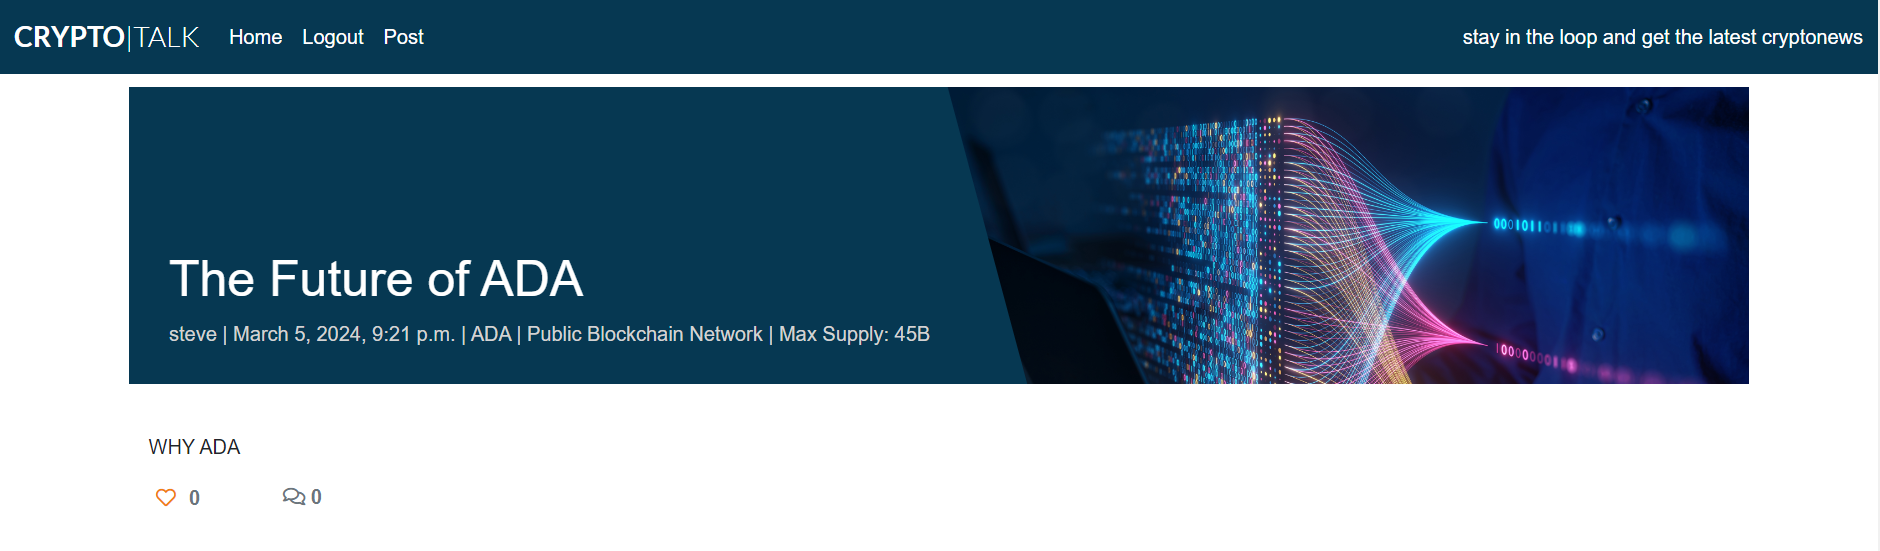
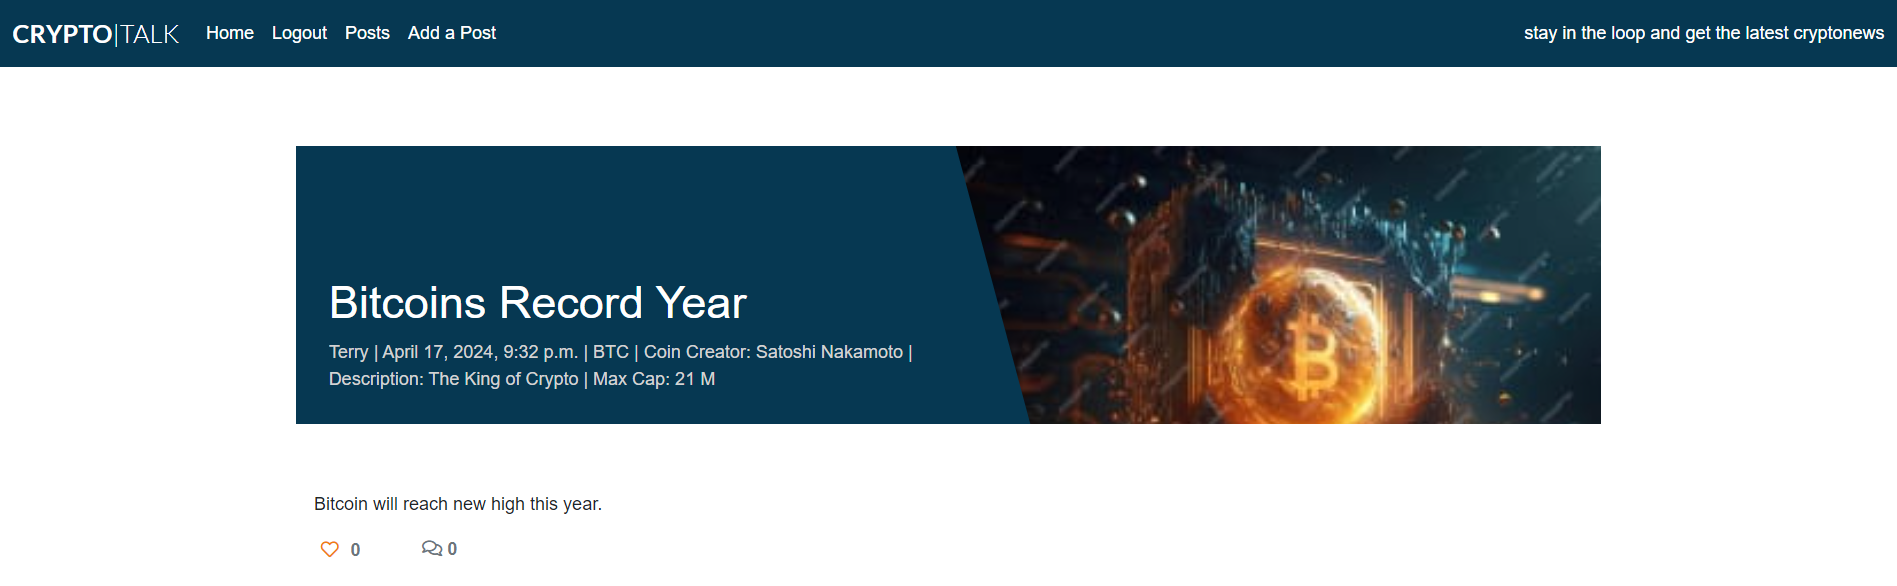
update readme and max_cap field

diff --git a/templates/account/login.html b/templates/account/login.html
@@ -3,14 +3,14 @@
 {% load i18n %}
 {% load account socialaccount %}
 
-{% block head_title %}{% trans "Sign In" %}{% endblock %}
+{% block head_title %}{% trans "Login" %}{% endblock %}
 
 {% block content %}
   
 <div class="container">
     <div class="row">
       <div class="col-md-8 mt-3 offset-md-2">
-        <h3>{% trans "Sign In" %}</h3>
+        <h3>{% trans "Login" %}</h3>
   
         <p>
           Welcome back to the CryptoTalk Blog. To leave a comment or like a post,
@@ -35,7 +35,7 @@
           {% if redirect_field_value %}
             <input type="hidden" name="{{ redirect_field_name }}" value="{{ redirect_field_value }}">
           {% endif %}
-          <button style="margin-top: 30px;" class="btn btn-signup right btn-lg" type="submit">{% trans "Sign In" %}</button>
+          <button style="margin-top: 30px;" class="btn btn-signup right btn-lg" type="submit">{% trans "Login" %}</button>
         </form>
         
       </div>

diff --git a/templates/account/logout.html b/templates/account/logout.html
@@ -8,9 +8,9 @@
 <div class="container">
     <div class="row">
         <div class="col-md-8 mt-3 offset-md-2">
-            <h3>{% trans "Sign Out" %}</h3>
+            <h3>{% trans "Logout" %}</h3>
 
-            <p>{% trans 'Are you sure you want to sign out?' %}</p>
+            <p>{% trans 'Are you sure you want to logout?' %}</p>
         </div>
     </div>
     <div class="row">
@@ -21,7 +21,7 @@
                 {% if redirect_field_value %}
                 <input type="hidden" name="{{ redirect_field_name }}" value="{{ redirect_field_value }}" />
                 {% endif %}
-                <button class="btn btn-signup right" type="submit">{% trans 'Sign Out' %}</button>
+                <button class="btn btn-signup right" type="submit">{% trans 'Logout' %}</button>
             </form>
         </div>
     </div>

diff --git a/templates/post_list.html b/templates/post_list.html
@@ -46,7 +46,7 @@
                 <p class="card-text text-muted h6">
                   {{ post.created_on}} -
                   <i class="far fa-heart"></i> | {{post.number_of_likes }} |
-                  {{post.coin_type_name|default_if_none:"" }} | {{post.coin_type_description |default_if_none:"" }} | {{post.coin_creator |default_if_none:"" }} | {{post.coin_type_max_cap |default_if_none:"" }}
+                  {{post.coin_type_name|default_if_none:"" }} | Description: {{post.coin_type_description |default_if_none:"" }} | Creator: {{post.coin_creator |default_if_none:"" }} | Max Cap: {{post.coin_type_max_cap |default_if_none:"" }}
                 </p>
               </a>
               

diff --git a/blog/models.py b/blog/models.py
@@ -22,7 +22,7 @@ class Post(models.Model):
     featured_image = CloudinaryField('image', default='placeholder')
     coin_type_name = models.CharField(max_length=50, blank=True, null=True)
     coin_type_description = models.TextField(blank=True, null=True)
-    coin_type_max_cap = models.IntegerField(blank=True, null=True)
+    coin_type_max_cap = models.CharField(max_length=50, blank=True, null=True)
     coin_creator = models.CharField(max_length=50, blank=True, null=True)
     author_image = CloudinaryField('image', default='placeholder', blank=True, null=True)
     excerpt = models.TextField(blank=True)

diff --git a/blog/migrations/0018_alter_post_coin_type_max_cap.py b/blog/migrations/0018_alter_post_coin_type_max_cap.py
@@ -1,0 +1,18 @@
+# Generated by Django 3.2.23 on 2024-04-17 21:29
+
+from django.db import migrations, models
+
+
+class Migration(migrations.Migration):
+
+    dependencies = [
+        ('blog', '0017_alter_post_coin_creator'),
+    ]
+
+    operations = [
+        migrations.AlterField(
+            model_name='post',
+            name='coin_type_max_cap',
+            field=models.CharField(blank=True, max_length=50, null=True),
+        ),
+    ]

diff --git a/README.md b/README.md
@@ -3,47 +3,12 @@
 ![Responsive screenshot](static/images-readme/cryptalk-responsive.png)
 
 
-
-
-# The purpose with this project
-
-Few subjects today can get people going like crypto. It´s something that almost everyone has an opinion about. Its a topic that many don´t really fully understand. It´s also a subject that people like or dislike for many different reasons. CryptoTalk is a blog for anyone interested in crypto. It´s a way for someone with a opinion on crypto to share that with others. 
-
-
-Required technologies for this project:
-
-- HTML, CSS, JavaScript, Python+Django
-- Relational database (SQL)
-
-A live version of this project can be found at this url: <https://cryptalk-32183a196317.herokuapp.com/>
-
-# Design 
-
-## Color Scheme 
-[coolors.co](https://coolors.co/palette/f0810f-ffffff-063852-445261-e84610)
-
-![screenshot](static/images-readme/color_palette.png)
-
-
-### Design diagram
-
-The idea of behind CryptoTalk´s design is simplicity. My main focus here was to implement CRUD and to get the django elemnts working. 
-
-![Wireframe1](static/images-readme/home-bals.png)
-![Wireframe2](static/images-readme/signup-bals.png)
-![Wireframe3](static/images-readme/signup-bals.png)
-
-
-### Database scheme
-![Database](static/images-readme/database_scheme.png)
-
-
-
 # Table of Content
 
 - [CryptoTalk](#cryptotalk)
 - [The purpose with this project](#the-purpose-with-this-project)
 - [Design](#design)
+  - [Color Scheme](#color-scheme)
   - [Design diagram](#design-diagram)
   - [Database scheme](#design-diagram)
 - [Table of Content](#table-of-content)
@@ -113,6 +78,42 @@ The idea of behind CryptoTalk´s design is simplicity. My main focus here was to
 
 
 
+
+# The purpose with this project
+
+Few subjects today can get people going like crypto. It´s something that almost everyone has an opinion about. Its a topic that many don´t really fully understand. It´s also a subject that people like or dislike for many different reasons. CryptoTalk is a blog for anyone interested in crypto. It´s a way for someone with a opinion on crypto to share that with others. 
+
+
+Required technologies for this project:
+
+- HTML, CSS, JavaScript, Python+Django
+- Relational database (SQL)
+
+A live version of this project can be found at this url: <https://cryptalk-32183a196317.herokuapp.com/>
+
+# Design 
+
+## Color Scheme 
+[coolors.co](https://coolors.co/palette/f0810f-ffffff-063852-445261-e84610)
+
+![screenshot](static/images-readme/color_palette.png)
+
+
+### Design Diagram
+
+The idea of behind CryptoTalk´s design is simplicity. My main focus here was to implement CRUD and to get the django elemnts working. 
+
+![Wireframe1](static/images-readme/home-bals.png)
+![Wireframe2](static/images-readme/signup-bals.png)
+![Wireframe3](static/images-readme/signup-bals.png)
+
+
+### Database Scheme
+![Database](static/images-readme/database_scheme.png)
+
+
+
+
 ## UX
 
 ### User Demographic
@@ -179,7 +180,7 @@ From Code Institutes assessment guide:
 In this project, you'll build a Full-Stack site based on business logic used to control a centrally-owned dataset. You will set up an authentication mechanism and provide role-based access to the site's data or other activities based on the dataset.
 
 
-### Site navigation
+### Site Navigation
 
 ![Site navigation](static/images-readme/site_navigation.png)
 
@@ -192,9 +193,9 @@ Cryptotalk consists of features avaliable for the site user and admin.
 
 #### Home
 
-The homepage contains the latest post and is the common redirect in this project. 
+The homepage contains two images and a descriptive text
 
-![Home](static/images-readme/home.png)
+![Home](sstatic/images-readme/home_page.png)
 
 #### Navbar
 
@@ -216,7 +217,7 @@ The sites login page tells the user what it needs to validate.
 #### Logout
 The sites logout page asks one simple question. 
 
-![Logout](static/images-readme/signout-page.png)
+![Logout](static/images-readme/log_out_page.png)
 
 #### Add Post
 The sites add post feature also asks for content and body. It also gives the user the option to add a feature image choose a cointype and add a author(profile) image. 
@@ -225,7 +226,7 @@ The sites add post feature also asks for content and body. It also gives the use
 
 #### Post
 
-The post is the body of the post and contains the img, author, title, postdate, coin type, volume, description, author image, likes and depending on autherisation delete/edit links.
+The post is the body of the post and contains the img, author, title, postdate, coin type, max cap, description, author image, coin creator, likes and depending on autherisation delete/edit links.
 
 ![PostDetailView](static/images-readme/post.png)
 
